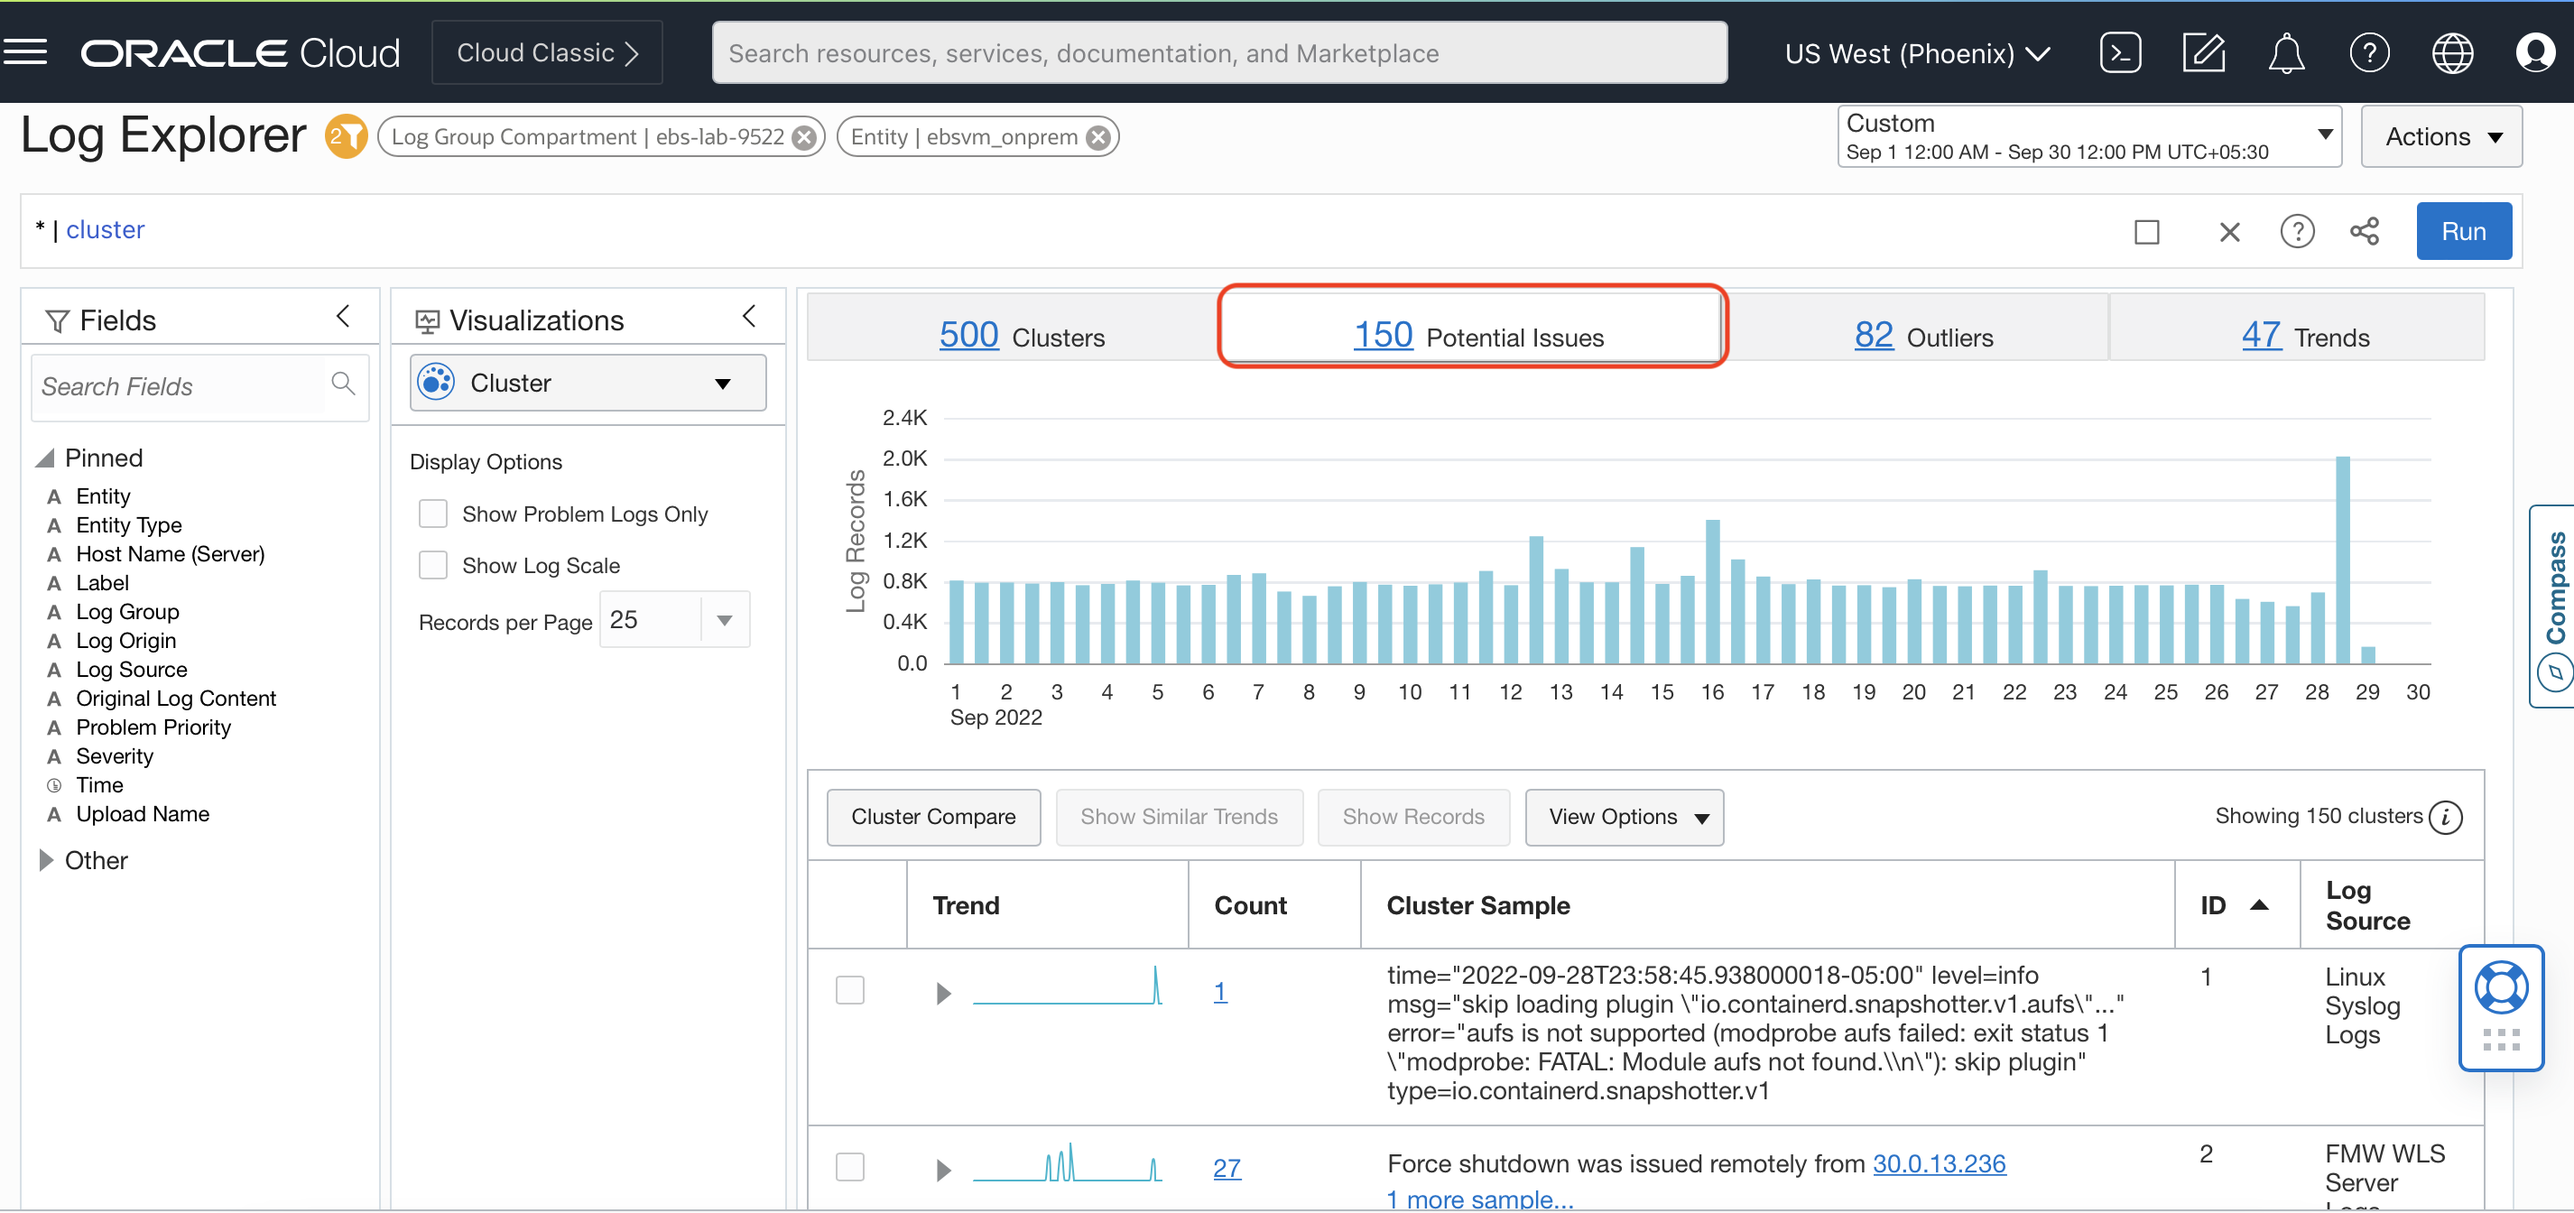
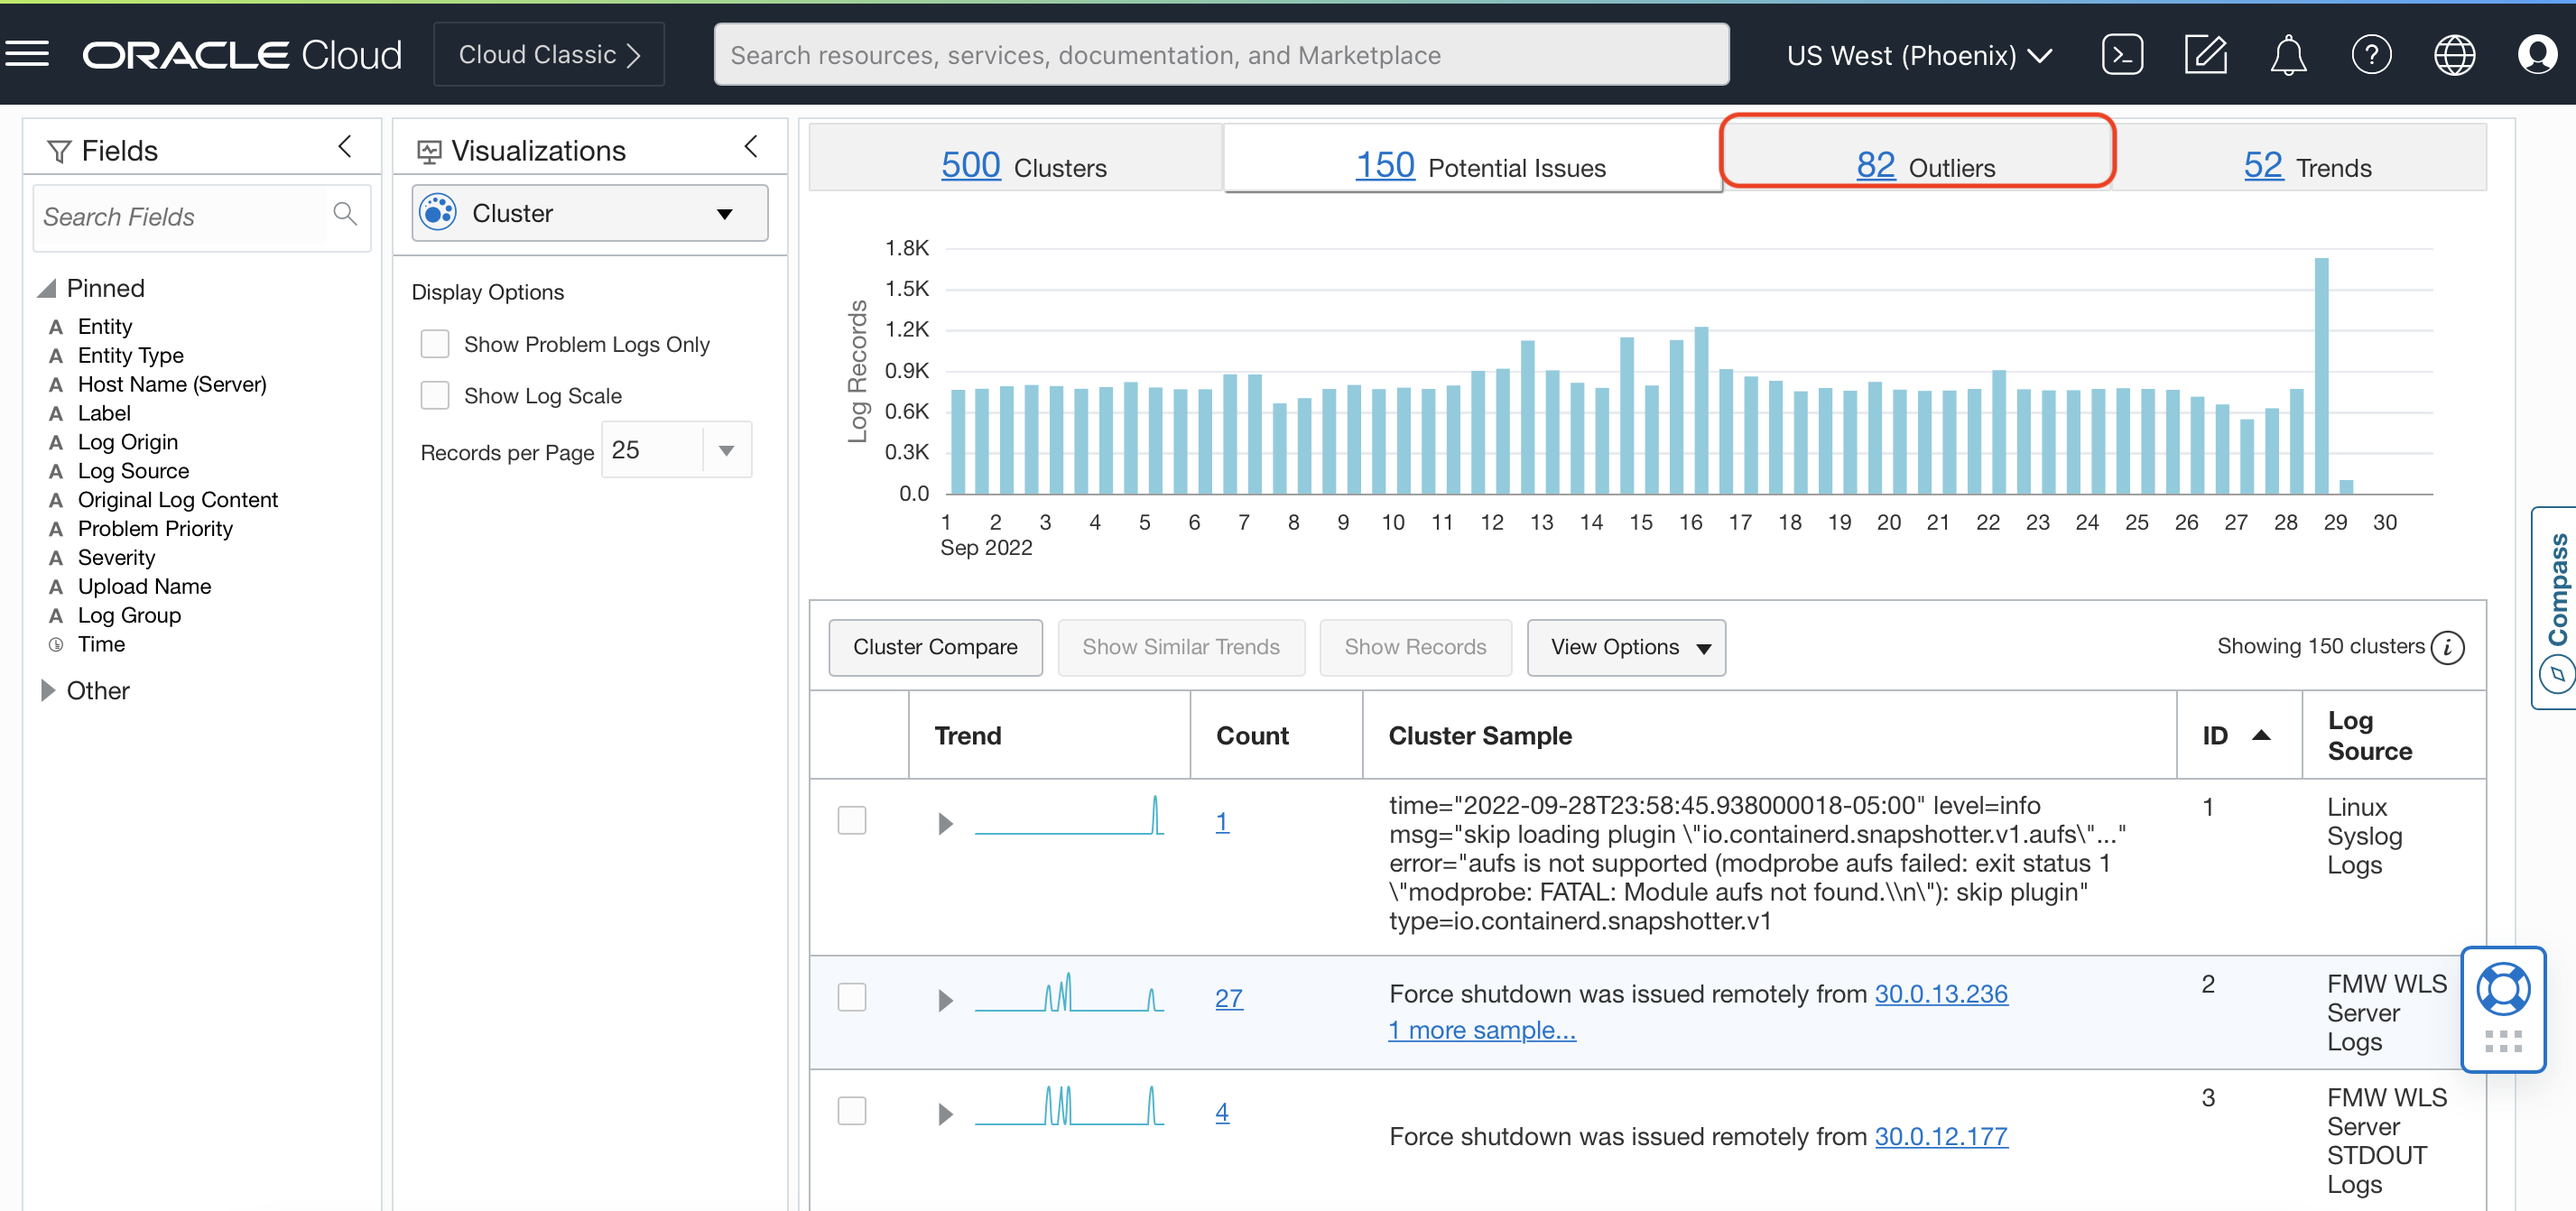
Update and enhance EBS Lab

diff --git a/logging-analytics/ebs-monitoring/loganalytics-link-cmd/link-cmd.md b/logging-analytics/ebs-monitoring/loganalytics-link-cmd/link-cmd.md
@@ -21,11 +21,11 @@ In this lab, you will:
   1. Clear Scope Filter for Log Group Compartment and Entity selection.
   ![](images/la-scope-filter-clear.png "UIdescription")
 
-  2. Click on "Actions" and "Create New" to return to the default Log Explorer view
+  2. Click on "Actions" -> "Create New" to return to the default Log Explorer view
 
   ![](images/create-new.png "UIdescription")
 
-  Default view for reference
+  The below screenshot shows default view of logging analytics explorer page.
 
   ![](images/default-landing-le.png "UIdescription")
 
@@ -37,15 +37,17 @@ In this lab, you will:
 
   ![](images/ss-ebs-saved-search.png "UIdescription")
 
+  The below screenshot is a saved search for "EBS Concurrent Request Analysis" for analysing the logs.
+
   ![](images/link-goal.png "UIdescription")
 
   4. This visualization shows concurrent request jobs running under different applications such as Receivables, Human Resources and size of the bubbles corresponds to the time-taken by those jobs. Hover on top of any bubble to see more details.
 
   ![](images/link-hover.png "UIdescription")
 
-  Next, we want to slice-and-dice this data based on Application, Time Taken.
+  Next, we want to slice-and-dice this data based on Time Taken, Application.
 
-## **Task 2:** Slice-And-Dice log data based **Time Taken**
+## **Task 2:** Slice-And-Dice log data based on **Time Taken**
 
   1. Click on the **Gear** icon on the top left of the chart and select **Filter Options** which will launch "Filter Options" a pop-up.
 
@@ -55,7 +57,7 @@ In this lab, you will:
 
   ![](images/link-filter-select.png "UIdescription")
 
-  3. Click Close
+  3. Click Close, you will see list of Jobs running for every EBS Applications and time taken by each job to complete.
 
   ![](images/link-with-filter.png "UIdescription")
 

diff --git a/logging-analytics/ebs-monitoring/loganalytics-ml-clustering/ml-clustering.md b/logging-analytics/ebs-monitoring/loganalytics-ml-clustering/ml-clustering.md
@@ -63,7 +63,7 @@ Now we will walk through Analyzing large volume of logs using cluster command.
 
    ![](images/la-cluster-outlier-tab.png "image11")
 
-3. You will these issues occurred only once, and indicate an anomaly in the system.
+3. You will see these issues occurred only once, and indicate an anomaly in the system.
 
    ![](images/outliers-2.png "outliers")
 
